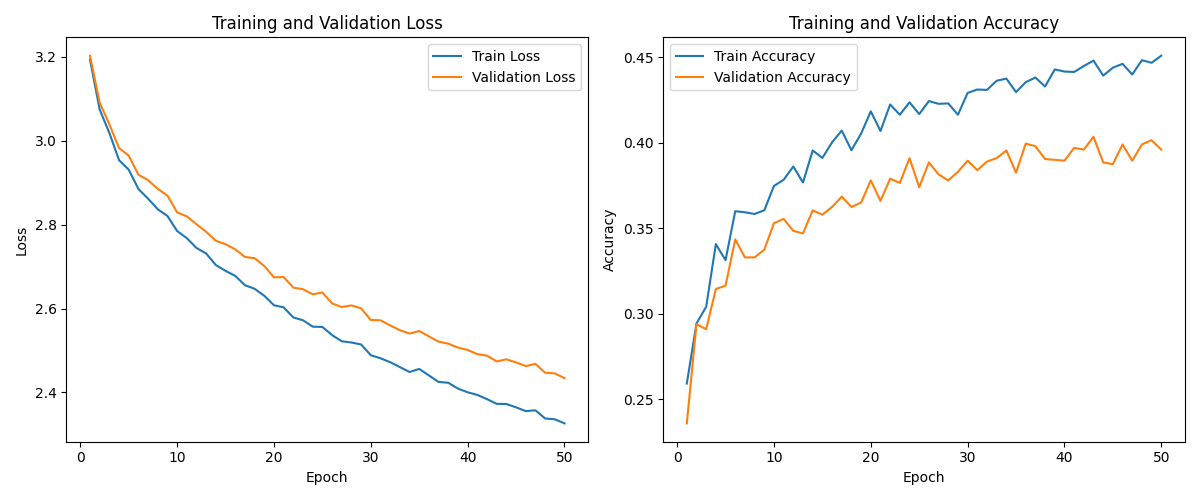
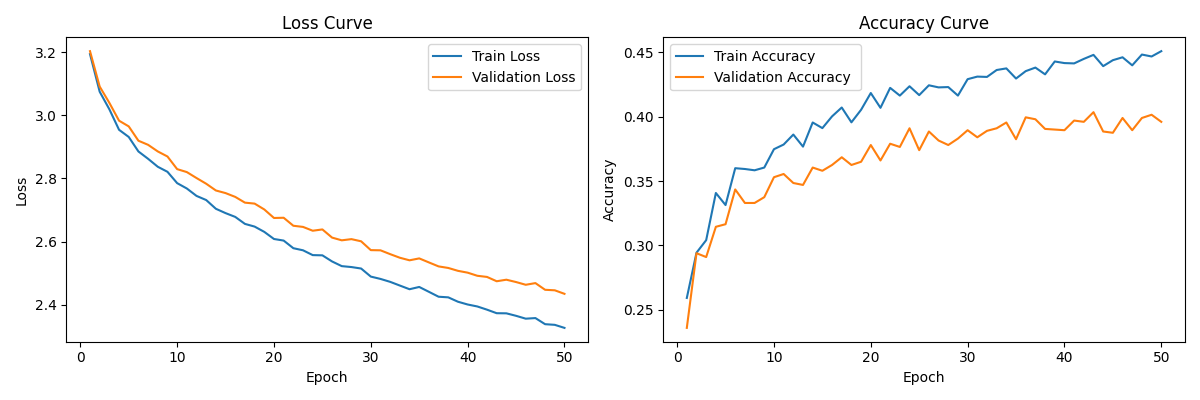
final

diff --git a/visualize_training.py b/visualize_training.py
@@ -1,0 +1,39 @@
+import pandas as pd
+import matplotlib.pyplot as plt
+
+def visualize_training_history(csv_path):
+    """
+    可视化训练历史数据，包括训练损失、验证损失、训练准确率和验证准确率
+    
+    参数:
+        csv_path (str): 训练历史CSV文件的路径
+    """
+    # 读取CSV文件
+    df = pd.read_csv(csv_path)
+    
+    plt.figure(figsize=(12, 4))
+    
+    # 绘制损失曲线
+    plt.subplot(1, 2, 1)
+    plt.plot(df['epoch'], df['train_loss'], label='Train Loss')
+    plt.plot(df['epoch'], df['val_loss'], label='Validation Loss')
+    plt.title('Loss Curve')
+    plt.xlabel('Epoch')
+    plt.ylabel('Loss')
+    plt.legend()
+    
+    # 绘制准确率曲线
+    plt.subplot(1, 2, 2)
+    plt.plot(df['epoch'], df['train_acc'], label='Train Accuracy')
+    plt.plot(df['epoch'], df['val_acc'], label='Validation Accuracy ')
+    plt.title('Accuracy Curve')
+    plt.xlabel('Epoch')
+    plt.ylabel('Accuracy')
+    plt.legend()
+    
+    plt.tight_layout()
+    plt.savefig('training_history.png')
+    plt.close()
+
+if __name__ == "__main__":
+    visualize_training_history('training_history.csv') 
